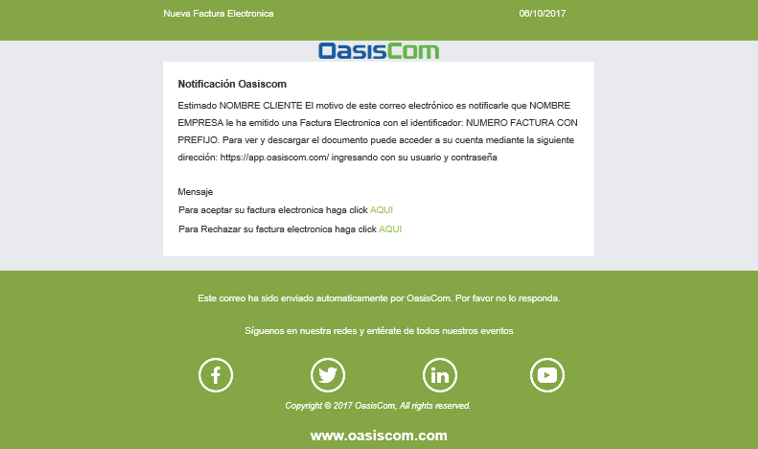
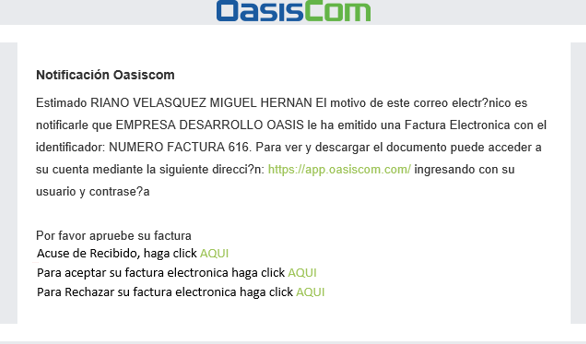
ebportal

diff --git a/Operacion/ebportal/ebportal.md b/Operacion/ebportal/ebportal.md
@@ -9,9 +9,16 @@ editable: si
 
 ## [Correo Factura Electrónica](http://docs.oasiscom.com/Operacion/ebportal/#correo-factura-electrónica)
 
-La plantilla de envío de facturas electrónicas contiene dos links que permiten _Aceptar_ o _Rechazar_ la factura. Igualmente, para cada acción se envía una plantilla de correo como respuesta.  
+La plantilla de envío de facturas electrónicas contiene tres links que permiten confirmar el recibido de la factura, _Aceptarla_ o _Rechazarla_. Igualmente, para cada acción se envía una plantilla de correo como respuesta.  
 
 ![](ebportal.png)
+
+Plantilla al confirmar el recibido de la factura.  
+
+![](ebportal3.png)
+
+![](ebportal4.png)
+
 
 Plantilla al _Aceptar_ una factura.  
 
